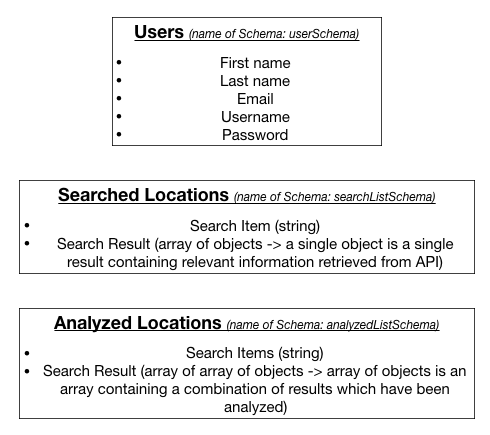
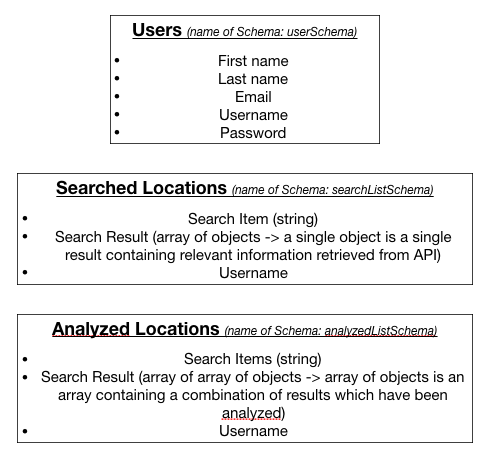
added database CRUD

Changed region(s): [[0.0308, 0.3586, 0.9856, 0.6276], [0.0308, 0.6874, 0.9856, 0.9563], [0.2156, 0.0299, 0.8008, 0.3287]]

diff --git a/controllers/userController.js b/controllers/userController.js
@@ -3,12 +3,17 @@ const SearchList = require('../models/searchList');
 const AnalyzedList = require('../models/analyzedList');
 const User = require('../models/user');
 
-// read results from database
+
+// read results from database, searchList and analyzedList
 exports.result = (req, res) => {
-  SearchList.find({}, (err, searchResult) => {
+  SearchList.find({username: req.params.id})
+  .populate('username')
+  .exec((err, searchResult) => {
     if (err) console.log(err);
 
-    AnalyzedList.find({}, (err, analyzedResult) => {
+    AnalyzedList.find({username: req.params.id})
+    .populate('username')
+    .exec((err, analyzedResult) => {
       if (err) console.log(err);
 
       res.render('savedResults', {'searchList': searchResult, 'analyzedList': analyzedResult});
@@ -16,10 +21,55 @@ exports.result = (req, res) => {
   });
 };
 
-// showing user information
+
+// read user information from database, user
 exports.profile = (req, res) => {
-  User.findOne({username: req.params.id}, (err, result) => {
+  User.findOne({_id: req.params.id}, (err, result) => {
     if (err) console.log(err);
     res.render('profile', result);
+  });
+};
+
+
+// update user information to database, user
+// use mongoose save method instead of update method as mongoose middleware to hash password is only invoked on save method
+exports.change = (req, res) => {
+  User.findOne({_id: req.params.id}, (err, result) => {
+    // console.log(result);
+    if (err) console.log(err);
+
+    result.firstName = req.body.firstName;
+    result.lastName = req.body.lastName;
+    result.email = req.body.email;
+    result.username = req.body.username;
+    result.password = req.body.password;
+    // validate password and cannot be empty field
+
+    result.save((err, updatedResult) => {
+      if (err) console.log(err);
+      // console.log(updatedResult);
+      req.flash('success', 'Credentials saved.');
+      res.redirect('/profile/' + req.params.id);
+    });
+  });
+};
+
+
+// delete search and analyzed data from database, searchList and analyzedList, through ajax request
+exports.deleteSearch = (req, res) => {
+  let query = {_id: req.params.id};
+  // console.log(query);
+  SearchList.remove(query, (err) => {
+    if (err) console.log(err);
+    console.log("deleted from searchList");
+  });
+};
+
+exports.deleteAnalyzed = (req, res) => {
+  let query = {_id: req.params.id};
+  // console.log(query);
+  AnalyzedList.remove(query, (err) => {
+    if (err) console.log(err);
+    console.log("deleted from analyzedList");
   });
 };

diff --git a/public/javascript/main.js b/public/javascript/main.js
@@ -1,3 +1,4 @@
+// navbar javascript
 document.addEventListener('DOMContentLoaded', function () {
 
   // Get all "navbar-burger" elements
@@ -21,6 +22,7 @@ document.addEventListener('DOMContentLoaded', function () {
     });
   }
 });
+
 
 $(document).ready(function() {
   // event listener to add more input fields
@@ -89,5 +91,39 @@ $(document).ready(function() {
 
   setTimeout(function() {
     $(".flash").fadeOut(800);
-  }, 2000);
+  }, 5000);
+
+
+  // ajax request to handle delete request from anchor tags
+  $('.delete-search').on('click', function(e) {
+    var id = $(this).data("id");
+    $("#" + id).fadeOut(800);
+
+    $.ajax({
+      url: '/delete/search/' + id,
+      type: 'delete',
+      success: function(data) {
+        console.log(data);
+      },
+      error: function(data) {
+        console.log(data);
+      }
+    });
+  });
+
+  $('.delete-analyzed').on('click', function(e) {
+    var id = $(this).data("id");
+    $("#" + id).fadeOut(800);
+
+    $.ajax({
+      url: '/delete/analyzed/' + id,
+      type: 'delete',
+      success: function(data) {
+        console.log(data);
+      },
+      error: function(data) {
+        console.log(data);
+      }
+    });
+  });
 });

diff --git a/controllers/authController.js b/controllers/authController.js
@@ -1,6 +1,8 @@
 // model
 const User = require('../models/user');
 
+const passport = require('../helpers/passportInfo');
+
 exports.login = (req, res) => {
   res.render('login');
 };
@@ -9,15 +11,26 @@ exports.register = (req, res) => {
   res.render('register');
 };
 
-exports.user = (req, res) => {
+exports.signup = (req, res) => {
+  // create account in database, user
   User.create({
     firstName: req.body.firstName,
     lastName: req.body.lastName,
     email: req.body.email,
     username: req.body.username,
-    password: req.body.password1
+    password: req.body.password
+  }, (err, createdUser) => {
+    if (err) {
+      req.flash('error', 'Could not create user account.');
+      res.redirect('/register');
+    } else {
+      // after account successfully created, authenticate user
+      passport.authenticate('local', {
+        successRedirect: '/',
+        successFlash: 'Welcome! Account created.',
+      })(req, res);
+    }
   });
-  res.redirect('/');
 };
 
 exports.logout = (req, res) => {

diff --git a/routes/routes.js b/routes/routes.js
@@ -19,15 +19,18 @@ router.post('/login',
   passport.authenticate('local', {
     successRedirect: '/',
     failureRedirect: '/login',
-    successFlash: 'Welcome',
+    successFlash: 'Welcome!',
     failureFlash: true
   }));
 router.get('/register', authController.register);
-router.post('/register', authController.user);
+router.post('/register', authController.signup);
 router.get('/logout', authController.logout);
 
 // routes available with login
-router.get('/profile', isLoggedIn, userController.profile);
-router.get('/result', isLoggedIn, userController.result);
+router.get('/profile/:id', isLoggedIn, userController.profile);
+router.post('/profile/:id', isLoggedIn, userController.change);
+router.get('/result/:id', isLoggedIn, userController.result);
+router.delete('/delete/search/:id', isLoggedIn, userController.deleteSearch);
+router.delete('/delete/analyzed/:id', isLoggedIn, userController.deleteAnalyzed);
 
 module.exports = router;

diff --git a/helpers/save.js b/helpers/save.js
@@ -2,17 +2,20 @@
 const SearchList = require('../models/searchList');
 const AnalyzedList = require('../models/analyzedList');
 
-var saveResult = function(displayArray, itemArray, displaySortedArray) {
+// create results into database, searchList and analyzedList
+var saveResult = function(displayArray, itemArray, displaySortedArray, userId) {
   displayArray.forEach(function(element) {
     SearchList.create({
       item: element.indivItem,
-      result: element.indivResult
+      result: element.indivResult,
+      username: userId
     });
   });
 
   AnalyzedList.create({
     item: itemArray.join(", ").toUpperCase(),
-    result: displaySortedArray
+    result: displaySortedArray,
+    username: userId
   });
 };
 

diff --git a/controllers/homeController.js b/controllers/homeController.js
@@ -75,8 +75,10 @@ exports.search = (req, res) => {
           // render or display results
           res.render('result', {'searchList': displayArray, 'search': itemArray.join(", ").toUpperCase(), 'analyzedList': displaySortedArray});
 
-          // save results to database
-          saveResult(displayArray, itemArray, displaySortedArray);
+          // save results to database only when logged in
+          if (res.locals.currentUser) {
+            saveResult(displayArray, itemArray, displaySortedArray, res.locals.currentUser._id);
+          }
         }
       }).catch(e => {
         console.log(e);

diff --git a/index.js b/index.js
@@ -24,6 +24,7 @@ app.use(bodyParser.json());
 app.use(bodyParser.urlencoded({extended: true}));
 
 app.use(express.static(path.join(__dirname, 'public')));
+app.use(express.static('public'));
 app.engine('handlebars', exphbs({defaultLayout: 'main'}));
 app.set('view engine', 'handlebars');
 
@@ -42,6 +43,7 @@ app.use(flash());
 app.use((req, res, next) => {
   // passing flash messages to alerts to render in handlebars
   res.locals.alerts = req.flash();
+  // console.log(res.locals.alerts);
   // getting the user details obtained through passport
   res.locals.currentUser = req.user;
   next();

diff --git a/helpers/passportInfo.js b/helpers/passportInfo.js
@@ -14,9 +14,10 @@ passport.deserializeUser(function(id, done) {
 });
 
 passport.use(new LocalStrategy({
+  // parameters name found in form
   usernameField:  'username',
   passwordField: 'password'
-},function(username, password, done) {
+}, function(username, password, done) {
   User.findOne({username: username}, function(err, user) {
     if (err) {return done(err);}
     if (!user) {

diff --git a/models/analyzedList.js b/models/analyzedList.js
@@ -7,6 +7,10 @@ const analyzedListSchema = new Schema({
   },
   result: {
     type: Array
+  },
+  username: {
+    type: Schema.Types.ObjectId,
+    ref: 'User'
   }
 });
 

diff --git a/models/searchList.js b/models/searchList.js
@@ -7,6 +7,10 @@ const searchListSchema = new Schema({
   },
   result: {
     type: Array
+  },
+  username: {
+    type: Schema.Types.ObjectId,
+    ref: 'User'
   }
 });
 

diff --git a/README.md b/README.md
@@ -59,7 +59,8 @@ The last flow chart shows the routes that link the website pages.
 * [jQuery](http://jquery.com/)
 * Node.js, Yarn, Express, Handlebars
 * API and data by [Yelp](https://www.yelp.com.sg/singapore)
-* MongoDB and Mongoose
+* Passport.js, Bcrypt, Flash messages
+* MongoDB and Mongoose, hosted on mLab
 
 ---
 
@@ -68,6 +69,7 @@ The last flow chart shows the routes that link the website pages.
 * Authentication
 * Website pages design
 * Deployment on Heroku
+* Search logic
 
 ---
 
